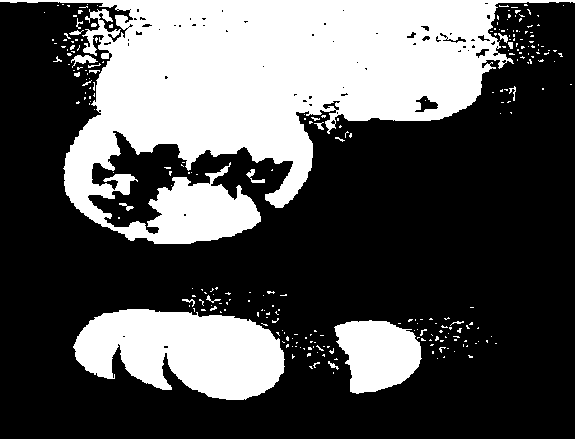
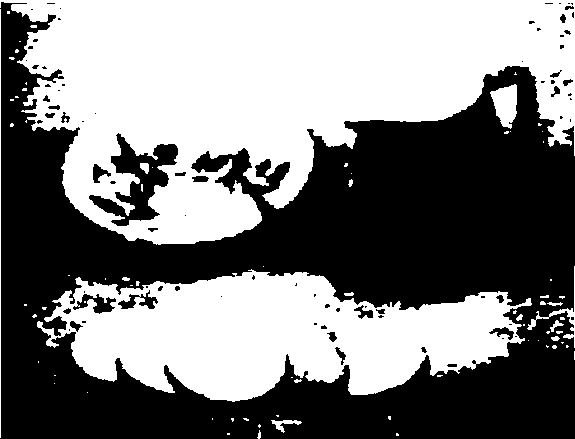
Border-Training

diff --git a/Objects_Shrink.py b/Objects_Shrink.py
@@ -1,0 +1,48 @@
+import numpy as np
+import pandas as pd
+import cv2
+
+img = cv2.imread("Objects.png", cv2.IMREAD_GRAYSCALE)
+print(img.shape)
+for i in range(img.shape[0]):
+    for j in range(img.shape[1]):
+            if img[i,j] < 110:
+                img[i,j] = 0
+            else:
+                img[i,j] = 255
+
+cv2.imshow("Black and White", img)
+cv2.waitKey(0)
+cv2.destroyAllWindows()
+
+img2 = img.copy()
+for i in range(img2.shape[0] - 1):
+    for j in range(img2.shape[1] - 1):
+            a1 = img[i-1,j-1]
+            a2 = img[i-1,j]
+            a3 = img[i-1,j+1]
+            a4 = img[i,j-1]
+            a5 = img[i,j+1]
+            a6 = img[i+1,j-1]
+            a7 = img[i+1,j]
+            a8 = img[i+1,j+1]
+            sigma = (int(a1) + int(a2) + int(a3) + int(a4) + int(a5) + int(a6) + int(a7) + int(a8))
+            if sigma < 2040:
+                img2[i][j] = 0
+            else:
+                img2[i][j] = 255
+
+cv2.imshow("Black and White", img2)
+cv2.waitKey(0)
+cv2.destroyAllWindows()
+
+for i in range(img.shape[0]):
+    for j in range(img.shape[1]):
+        if img[i,j] == img2[i,j]:
+            img2[i,j] = 255
+        else:img2[i,j] = 0
+
+cv2.imshow("Black and White", img2)
+cv2.waitKey(0)
+cv2.imwrite("BW_Objects_Border_Shrinking.png", img2)
+cv2.destroyAllWindows()

diff --git a/Objects.py b/Objects.py
@@ -1,0 +1,39 @@
+import numpy as np
+import pandas as pd
+import cv2
+
+img = cv2.imread("Objects.png", cv2.IMREAD_GRAYSCALE)
+print(img.shape)
+for i in range(img.shape[0]):
+    for j in range(img.shape[1]):
+            if img[i,j] < 110:
+                img[i,j] = 0
+            else:
+                img[i,j] = 255
+
+cv2.imshow("Black and White", img)
+cv2.waitKey(0)
+cv2.imwrite("BW_Objects.png", img)
+cv2.destroyAllWindows()
+
+img2 = img.copy()
+for i in range(img2.shape[0] - 1):
+    for j in range(img2.shape[1] - 1):
+            a1 = img[i-1,j-1]
+            a2 = img[i-1,j]
+            a3 = img[i-1,j+1]
+            a4 = img[i,j-1]
+            a5 = img[i,j+1]
+            a6 = img[i+1,j-1]
+            a7 = img[i+1,j]
+            a8 = img[i+1,j+1]
+            sigma = (int(a1) + int(a2) + int(a3) + int(a4) + int(a5) + int(a6) + int(a7) + int(a8))
+            if sigma > 0 and sigma < 2040:
+                img2[i][j] = 0
+            else:
+                img2[i][j] = 255
+
+cv2.imshow("Border", img2)
+cv2.waitKey(0)
+cv2.imwrite("BW_Objects_Border.png", img2)
+cv2.destroyAllWindows()

diff --git a/Main.py b/Main.py
@@ -4,21 +4,25 @@ import cv2
 
 img = cv2.imread("Kitchen.png", cv2.IMREAD_GRAYSCALE)
 img2 = img.copy()
+print(img.shape)
 for i in range(img.shape[0]):
     for j in range(img.shape[1]):
-        if img[i,j] < 155:
-            img[i,j] = 0
-        else:
-            img[i,j] = 255
-cv2.imshow("Kitchen", img)
+            if img[i,j] < 128:
+                img[i,j] = 0
+            else:
+                img[i,j] = 255
+cv2.imshow("Black and White Kitchen", img)
 cv2.waitKey(0)
+cv2.destroyAllWindows()
+cv2.imwrite("BW_Kitchen.png", img)
 
 for i in range(img2.shape[0]):
     for j in range(img2.shape[1]):
         img2[i,j] = -img2[i,j]
-cv2.imshow("Kitchen", img2)
+cv2.imshow("Negative Kitchen", img2)
 cv2.waitKey(0)
 cv2.destroyAllWindows()
+cv2.imwrite("Negative_Kitchen.png", img2)
 
 road = cv2.imread("Road.png", cv2.IMREAD_COLOR)
 print(road.shape)
